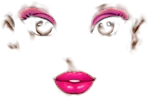
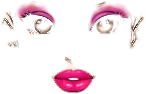
Add five makeups; remove pale halo from makeup on darker skin
- New makeups: Нюд, Кошачий глаз, Y2K, Персик, Готика (9 with natural).
- makeup.py unmixes the soft edges from the base skin and drops skin the
  edit merely redrew, so no light rim of the base tone shows around eyes and
  lips on other skin tones (fixes the older makeups too).

diff --git a/src/art/Doll.tsx b/src/art/Doll.tsx
@@ -60,6 +60,11 @@ export const MAKEUPS: Makeup[] = [
   { name: 'Вечерний', art: 'makeup-evening' },
   { name: 'Яркий', art: 'makeup-bright' },
   { name: 'Гламур', art: 'makeup-glam' },
+  { name: 'Нюд', art: 'makeup-nude' },
+  { name: 'Кошачий глаз', art: 'makeup-cateye' },
+  { name: 'Y2K', art: 'makeup-y2k' },
+  { name: 'Персик', art: 'makeup-peach' },
+  { name: 'Готика', art: 'makeup-goth' },
 ];
 
 /** Indices into HAIRSTYLES, HAIR_COLOURS, SKIN_TONES, MAKEUPS (old saves have only `hair`). */

diff --git a/art-src/v2/makeup.py b/art-src/v2/makeup.py
@@ -67,7 +67,20 @@ def main():
             sizes = ndi.sum(keep, lab, range(1, n + 1))
             keep = np.isin(lab, [i + 1 for i, s in enumerate(sizes) if s >= 25])
         alpha *= ndi.gaussian_filter(ndi.binary_dilation(keep, iterations=3).astype(np.float32), 1.5)
-        out = np.dstack([img[..., :3], 255 * alpha])
+        # Soft edges are makeup mixed with her (light) skin. Unmix them so the layer
+        # holds only the makeup's own colour: edit = a * M + (1 - a) * base. Otherwise
+        # the base's light skin rides along and shows as a pale halo on darker tones.
+        a = np.clip(alpha, 0, 1)[..., None]
+        pure = (img[..., :3] - (1 - a) * base[..., :3]) / np.maximum(a, 0.05)
+        rgb = np.where(a > 0.05, np.clip(pure, 0, 255), img[..., :3])
+        # what is still skin-coloured after unmixing is her skin redrawn, not makeup:
+        # it would keep the light base tone on every other tone. Fade it out by how
+        # close it is to her own skin there (lips and lashes differ a lot, keep them)
+        sys.path.insert(0, str(ROOT.parent))
+        from skin import srgb_to_lab
+        d = np.linalg.norm(srgb_to_lab(rgb.astype(np.float64)) - srgb_to_lab(base[..., :3].astype(np.float64)), axis=-1)
+        alpha *= np.clip((d - 8) / 14, 0, 1)
+        out = np.dstack([rgb, 255 * alpha])
         Image.fromarray(out.clip(0, 255).astype(np.uint8)).save(OUT / f'{name}.png')
         print(name, 'offset', off, 'px', int((alpha > 0.3).sum()))
 
